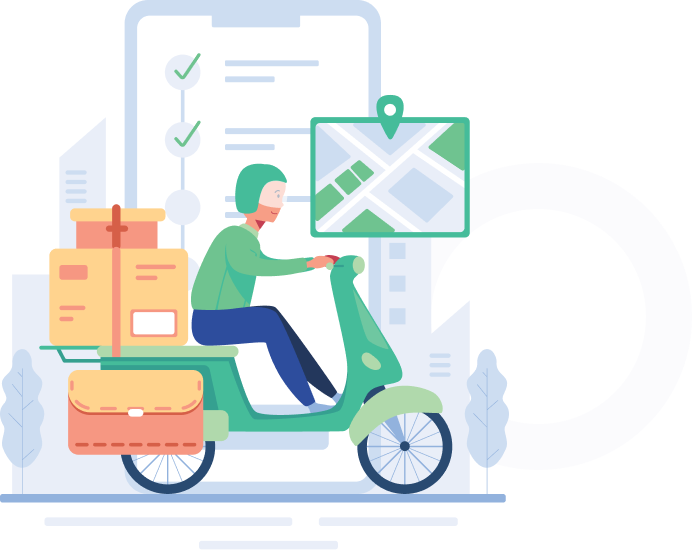
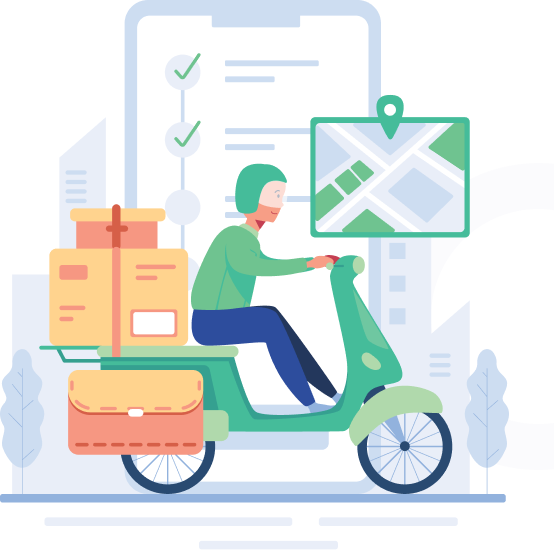
home front image text inversés

diff --git a/app/assets/stylesheets/homepage.scss b/app/assets/stylesheets/homepage.scss
@@ -1,7 +1,7 @@
 .hidden-admin-button {
   position: absolute;
   top: 296px;         /* Décalage du haut */
-  left: 308px;        /* Décalage de la gauche */
+  right: 390px;        /* Décalage de la droite */
   width: 50px;        /* Largeur du bouton */
   height: 50px;       /* Hauteur du bouton */
   background-color: #ff0000; /* Couleur de fond rouge */
@@ -40,17 +40,20 @@ $card-background: #fff;
   .hero-content {
     display: flex;
     align-items: center;
-    justify-content: center;
+    justify-content: flex-end; /* Aligne le contenu à droite */
+    margin-left: 20px;
+    gap: 40px;
 
     .hero-image {
-      max-width: 55%; /* Réduction de la taille de l'image */
-      margin-right: 20px; /* Espace à droite de l'image */
-      float: left;
-    }
+      margin-left: 20px; /* Espace à gauche de l'image */
+      margin-right: 50px;
+      float: right;
+  }
 
-    .hero-text {
-      padding: 20px;
-      text-align: left; /* Alignement du texte à gauche */
+  .hero-text {
+    padding: 20px;
+    text-align: left; /* Alignement du texte à gauche */
+    margin-right: 30px;
 
       h1 {
         font-size: 3.5em;
